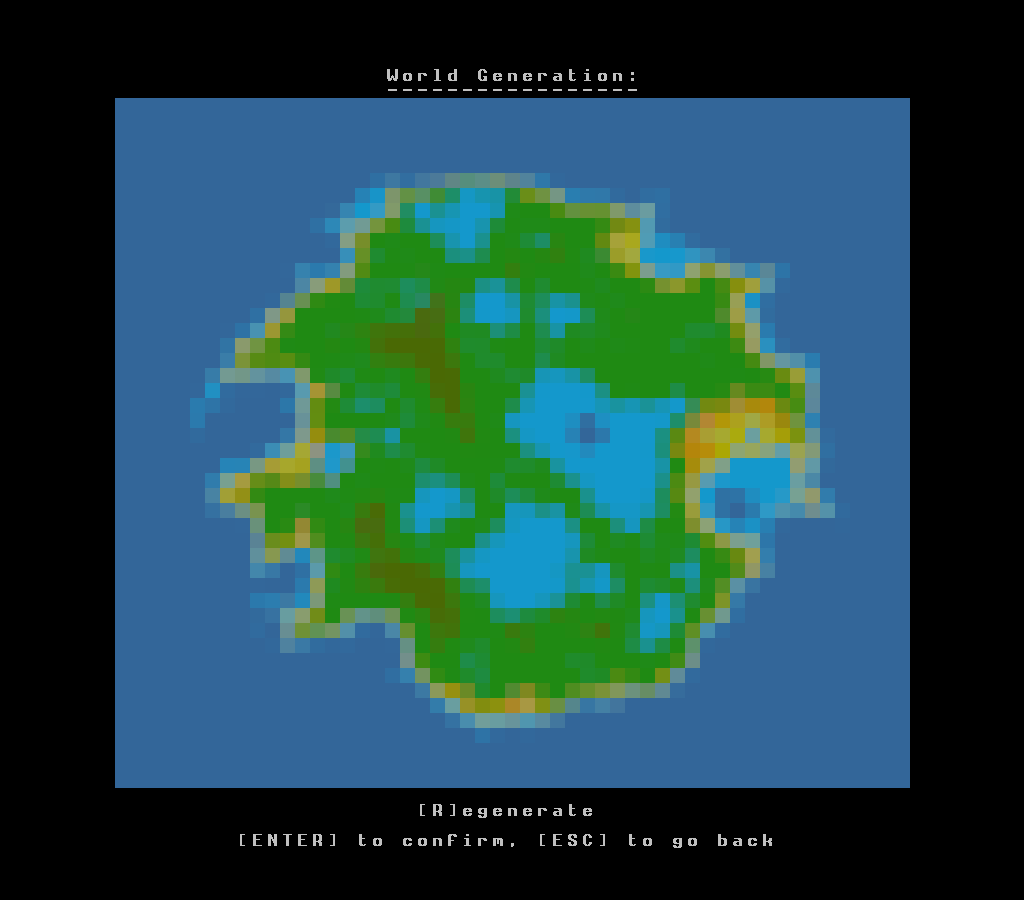
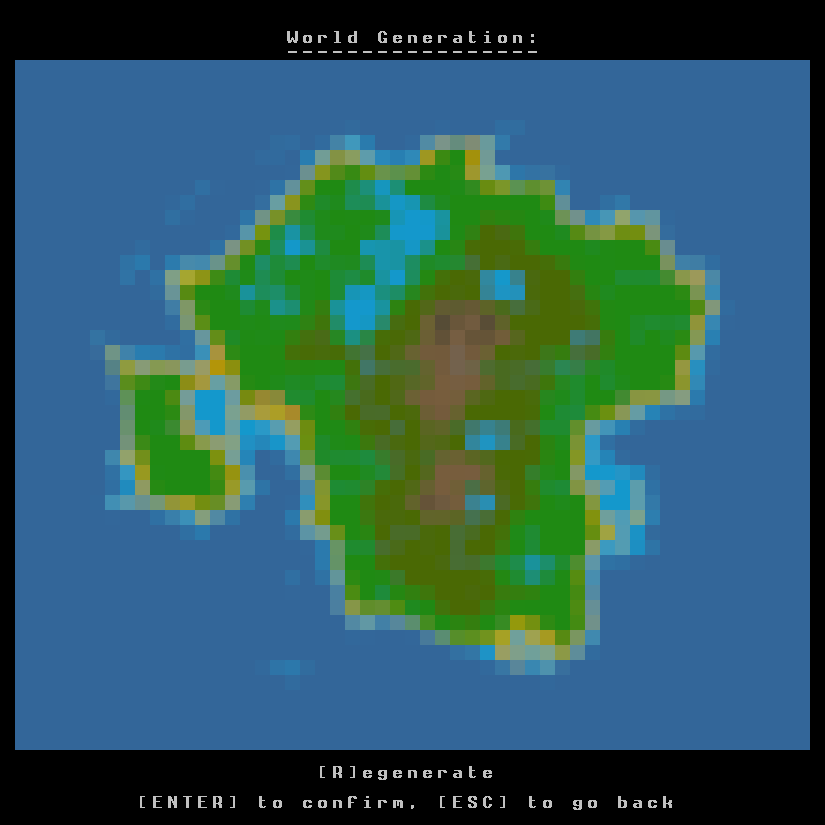
Add itch.io cover art and fresher screenshots
Captured from the 0.3.1 build: gameplay with the field-of-view circle and
combat log, a generated island, and the crafting screen, plus a 630x500
cover (itch's required ratio) built from the gameplay view. Replaces the
near-empty start-screen capture, and docs/itch-page.md now points at them.

Claude-Session: https://claude.ai/code/session_01G2PDexEKw9TMazsD7NJj96

diff --git a/docs/itch-page.md b/docs/itch-page.md
@@ -1,5 +1,11 @@
 # itch.io page copy
 
+Ready-made art lives beside this file and in `screenshots/`:
+
+* cover (630x500, itch's required ratio): `docs/assets/itch-cover.png`
+* screenshots: `screenshots/gameplay.png`, `worldgen.png`, `crafting.png`,
+  and the animated `gameplay.gif`
+
 Draft text for the store page — edit freely, then paste into the itch.io
 project editor. Page settings that matter:
 
